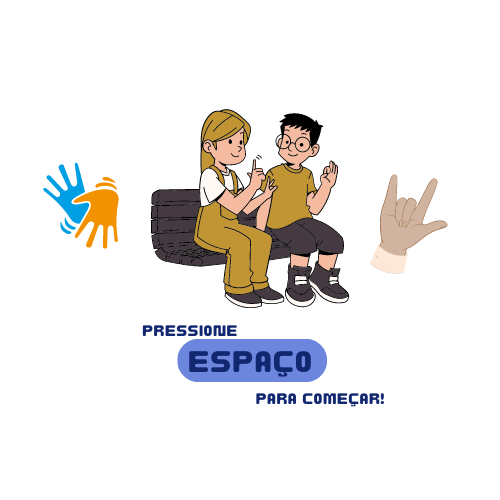
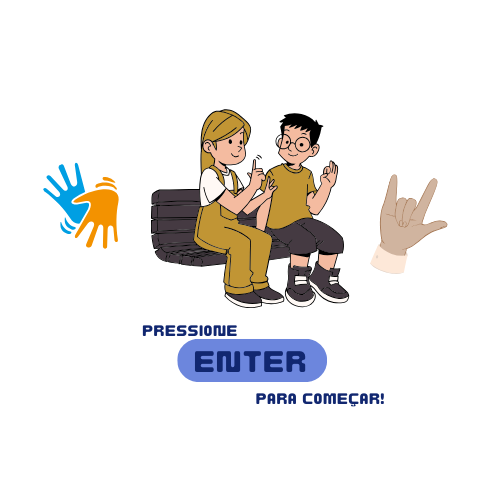
details_update

Changed region(s): [[0.36, 0.69, 0.63, 0.75], [0.36, 0.48, 0.42, 0.51]]

diff --git a/main.py b/main.py
@@ -1,13 +1,17 @@
 import pygame
 import sys
-from os import walk, path
+from os import walk, path, getcwd
+
+DIR = getcwd()
+bar = '/' if '/' in DIR else '\\'
+DIR += bar
 
 # Declaração de super variáveis
 TIMER = 60
 START = False
 START_QUESTIONS = False
-CHEAT = True  # Mude para 'True', caso queira aumentar as vidas teclando SHIFT
-LIFE = 5  # Vidas
+CHEAT = True  # 'True', caso queira aumentar as vidas teclando SHIFT
+LIFE = 10  # Vidas
 print(LIFE)  # Apenas para debug
 
 pygame.init()
@@ -25,7 +29,7 @@ user_text = ''
 time_text = ''
 
 # Definições de retângulos do pygame
-input_rect = pygame.Rect(250, 250, 140, 32)
+input_rect = pygame.Rect(250, 400, 140, 32)
 time_rect = pygame.Rect(50, 400, 50, 50)
 
 # Definições de cor do retângulo principal
@@ -39,7 +43,7 @@ error = False
 # Definições das respostas e das imagens das questões
 nomes_sinal = []
 sinais = []
-for a, b, i in walk('/home/rene/Documentos/rene/_myProjects/libras_game/sinais_img'):
+for a, b, i in walk(DIR + 'sinais_img'):
     for c in i:
         sinais.append(path.join(a, c))
     nomes_sinal = i
@@ -52,13 +56,13 @@ sinal = pygame.transform.smoothscale(sinal, (int(w*2), int(h*2)))
 pos_sinal = (160, 50)
 
 # Definição da música de fundo da entrada
-pygame.mixer.music.load('/home/rene/Documentos/rene/_myProjects/libras_game/musics/minecraft.mp3')
+pygame.mixer.music.load(DIR + 'musics' + bar + 'minecraft.mp3')
 pygame.mixer.music.play()  # loops=-1 (padrão) => faz a música se repetir indefinidamente
 
 # Definição da imagem do coraçãozinho
 life_img = []
 for f in range(2):
-    img_l = pygame.image.load('/home/rene/Documentos/rene/_myProjects/libras_game/img/life_img_'+str(f)+'.jpg').convert_alpha()
+    img_l = pygame.image.load(DIR + 'img' + bar + 'life_img_'+str(f)+'.jpg').convert_alpha()
     w_life, h_life = img_l.get_size()
     img_l = pygame.transform.smoothscale(img_l, (int(w_life*0.5), int(h_life*0.5)))
     life_img.append(img_l)
@@ -82,7 +86,7 @@ def quitGame():
     sys.exit()
 
 # Definições e verifição sobre o início do game
-start_img = pygame.image.load('/home/rene/Documentos/rene/_myProjects/libras_game/img/start_img_game.png')
+start_img = pygame.image.load(DIR + 'img' + bar + 'start_img_game.png')
 pos_start = (25, 0)
 def start():
     global START
@@ -91,15 +95,15 @@ def start():
             if event.type == pygame.QUIT:
                 quitGame()
             if event.type == pygame.KEYDOWN:
-                if event.key == pygame.K_SPACE:
+                if event.key == pygame.K_RETURN:
                     START = True  # Caso o usuário clique no espaço, o programa sai do loop local infinito e continua no loop principal
 
         screen.blit(start_img, pos_start)
         pygame.display.flip()
         clock.tick(60)
 
-answers_img = pygame.image.load('/home/rene/Documentos/rene/_myProjects/libras_game/img/answers_img_game.png')
-pos_answers = (60, 0)
+answers_img = pygame.image.load(DIR + 'img' + bar + 'answers_img_game.png')
+pos_answers = (0, 0)
 def answers():
     global START_QUESTIONS
     while not START_QUESTIONS:
@@ -107,11 +111,11 @@ def answers():
             if event.type == pygame.QUIT:
                 quitGame()
             if event.type == pygame.KEYDOWN:
-                if event.key == pygame.K_SPACE:
+                if event.key == pygame.K_RETURN:
                     # Tira a música de fundo do início
                     pygame.mixer.music.unload()
                     # Definição do efeito quando começa o game
-                    pygame.mixer.music.load('/home/rene/Documentos/rene/_myProjects/libras_game/musics/go_start.wav')
+                    pygame.mixer.music.load(DIR + 'musics' + bar + 'go_start.wav')
                     pygame.mixer.music.play()
 
                     START_QUESTIONS = True  # Caso o usuário clique no espaço, o programa sai do loop local infinito e continua no loop principal
@@ -121,8 +125,8 @@ def answers():
         clock.tick(60)
 
 # Definições e verifição sobre o fim do game (basicamente plota uma imagem na tela e fica esperando o usuário clicar no espaço ou no "X" da janela)
-end_0_img = pygame.image.load('/home/rene/Documentos/rene/_myProjects/libras_game/img/end_img_game.png')
-end_1_img = pygame.image.load('/home/rene/Documentos/rene/_myProjects/libras_game/img/win_img_game.png')
+end_0_img = pygame.image.load(DIR + 'img' + bar + 'end_img_game.png')
+end_1_img = pygame.image.load(DIR + 'img' + bar + 'win_img_game.png')
 pos_end = (25, 0)
 def end(final=0):  # A imagem de end_0_img é a padrão, caso nada seja passado por parâmetro
     while True:
@@ -130,7 +134,7 @@ def end(final=0):  # A imagem de end_0_img é a padrão, caso nada seja passado 
             if event.type == pygame.QUIT:
                 quitGame()
             if event.type == pygame.KEYDOWN:
-                if event.key == pygame.K_SPACE:
+                if event.key == pygame.K_RETURN:
                     quitGame()
 
         if final == 1:  # Plota a imagem de vitória
@@ -169,14 +173,14 @@ while True:
 
         if event.type == pygame.KEYDOWN and active:
             # Faz a verificação da resposta
-            if event.key == pygame.K_SPACE:
-                if user_text.strip() == resp:  # Se estiver correta, ele vai para a próxima questão
+            if event.key == pygame.K_RETURN:
+                if user_text.strip().lower() == resp.lower():  # Se estiver correta, ele vai para a próxima questão
                     atual_sinal += 1
                     try:
                         sinal = pygame.image.load(sinais[atual_sinal]).convert_alpha()
                     except IndexError:
                         # Definição do efeito de vitória
-                        pygame.mixer.music.load('/home/rene/Documentos/rene/_myProjects/libras_game/musics/win.wav')
+                        pygame.mixer.music.load(DIR + 'musics' + bar + 'win.wav')
                         pygame.mixer.music.play()
                         end(1)
                     w, h = sinal.get_size()
@@ -189,12 +193,12 @@ while True:
                     print(hp)
                     if hp <= 0:  # Encerra o game quando as chances acabam
                         # Definição do efeito de derrota
-                        pygame.mixer.music.load('/home/rene/Documentos/rene/_myProjects/libras_game/musics/defeat.wav')
+                        pygame.mixer.music.load(DIR + 'musics' + bar + 'defeat.wav')
                         pygame.mixer.music.play()
                         end(0)
                     # Definição do efeito de resposta incorreta
                     pygame.mixer.music.unload()
-                    pygame.mixer.music.load('/home/rene/Documentos/rene/_myProjects/libras_game/musics/negative.wav')
+                    pygame.mixer.music.load(DIR + 'musics' + bar + 'negative.wav')
                     pygame.mixer.music.play()
                     error = True
             # Ao teclar em SHIFT, ganha uma vida >> Deve mudar o estado da variável 'CHEAT' para 'True'
@@ -207,8 +211,8 @@ while True:
                 user_text = user_text[:-1]
 
             # Sistema de adicionar caracteres no retângulo principal
-            elif event.key != pygame.K_SPACE:
-                pygame.mixer.music.load('/home/rene/Documentos/rene/_myProjects/libras_game/musics/snap_lofi.wav')
+            elif event.key != pygame.K_RETURN:
+                pygame.mixer.music.load(DIR + 'musics' + bar + 'snap_lofi.wav')
                 pygame.mixer.music.play()
                 user_text += event.unicode
 
